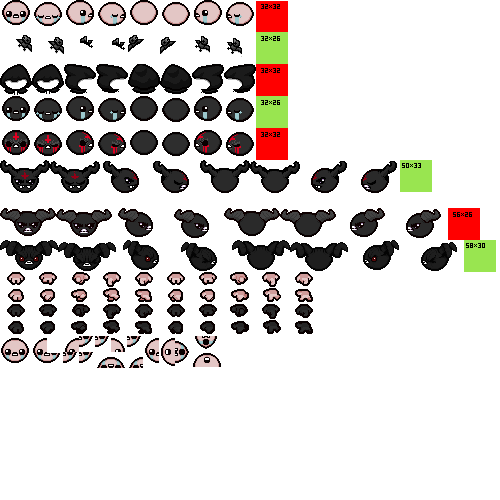
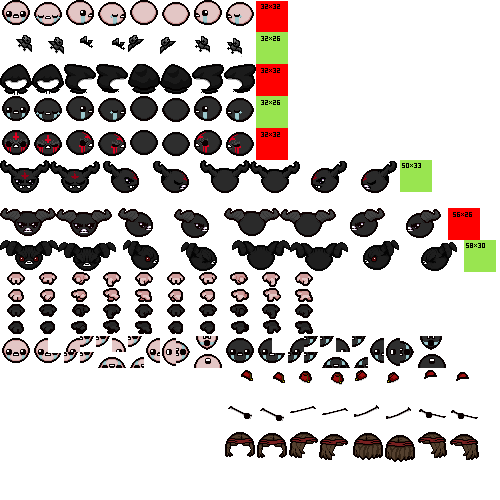
[ADD] Now can play up to 4 different Team !

diff --git a/graphics/src/Player.cpp b/graphics/src/Player.cpp
@@ -1,10 +1,11 @@
 #include "Player.hpp"
 
-Player::Player(e_orientation o, sf::Vector2i pos, std::string teamName, std::string id)
+Player::Player(e_orientation o, sf::Vector2i pos, std::string teamName, std::string id, e_character c)
 {
     
     this->_head = new mEntity("assets/fullSheet.png", sf::IntRect(0, 0 , 0, 0), 99, 1, LEFT_TO_RIGHT, "TexLoad");
     
+    //std::cout << e_character;
     _head->addAnimationLoop("stage1D", 2, 300, sf::IntRect(0, 0, 32, 26));
     _head->addAnimationLoop("stage1R", 2, 300, sf::IntRect(64, 0, 32, 26));
     _head->addAnimationLoop("stage1U", 2, 300, sf::IntRect(128, 0, 32, 26));
@@ -37,7 +38,16 @@ Player::Player(e_orientation o, sf::Vector2i pos, std::string teamName, std::str
     _head->addAnimationLoop("stage8L", 2, 300, sf::IntRect(348, 240, 58, 30));
 
 
-    this->_body = new mEntity("assets/fullSheet.png", sf::IntRect(0, 0, 0, 0), 99, 1, LEFT_TO_RIGHT,"TexLoad");
+    this->_character = c;
+    this->_accesories = new mEntity("assets/fullSheet.png", sf::IntRect(0, 0, 0, 0), 99, 1, LEFT_TO_RIGHT, "Texload");
+    
+    _accesories->addAnimationLoop("D", 2, 300, sf::IntRect(224, 369 + 32 * (_character - 1), 32, 26));
+    _accesories->addAnimationLoop("R", 2, 300, sf::IntRect(224 + 64, 369 + 32 * (_character - 1), 32, 26));
+    _accesories->addAnimationLoop("U", 2, 300, sf::IntRect(224 + 128, 369 + 32 * (_character - 1), 32, 26));
+    _accesories->addAnimationLoop("L", 2, 300, sf::IntRect(224 + 192, 369 + 32* (_character - 1), 32, 26));
+
+    this->_body = new mEntity("assets/fullSheet.png", sf::IntRect(0, 0, 0, 0), 99, 1, LEFT_TO_RIGHT, "TexLoad");
+
 
     _body->addAnimationLoop("UDwhiteidle", 1, 95, sf::IntRect(0, 272, 32, 16));
     _body->addAnimationLoop("UDwhite",10 , 95, sf::IntRect(0, 272, 32, 16));
@@ -51,8 +61,8 @@ Player::Player(e_orientation o, sf::Vector2i pos, std::string teamName, std::str
 
     _head->getSprite().setScale(sf::Vector2f(4, 4));
     _body->getSprite().setScale(sf::Vector2f(4, 4));
-    
-    
+    _accesories->getSprite().setScale(sf::Vector2f(4, 4));
+
     _stage = 0;
     _movementOffset = {0, 0};
     _position = pos;
@@ -62,10 +72,6 @@ Player::Player(e_orientation o, sf::Vector2i pos, std::string teamName, std::str
     _id = id;
     _life = 65;
 
-
-    ///// SHOULDN'T BE USEFUL
-    getBody()->getSprite().setPosition(sf::Vector2f(x() * 128, y() * 128 + 32));
-    /////////////////////////
 }
 
 Player::~Player()
@@ -93,21 +99,36 @@ mEntity* Player::getBody()
     return _body;
 }
 
+mEntity* Player::getAccesories()
+{
+    return _accesories;
+}
+
 void Player::update()
 {
-    std::string h = "stage";
+    _accesories->update();
+        std::string h = "stage";
     if (_stage <= 3)
         h += std::to_string(1);
     else
         h += std::to_string(_stage);
-    if (_orientation == LEFT)
+    
+    if (_orientation == LEFT) {
         h += std::string("L");
-    if (_orientation == RIGHT)
+        _accesories->changeAnimationLoop("L");
+    }
+    if (_orientation == RIGHT) {
         h += std::string("R");
-    if (_orientation == UP)
+        _accesories->changeAnimationLoop("R");
+    }
+    if (_orientation == UP) {
         h += std::string("U");
-    if (_orientation == DOWN)
+        _accesories->changeAnimationLoop("U");
+    }
+    if (_orientation == DOWN) {
         h += std::string("D");
+        _accesories->changeAnimationLoop("D");
+    }
     _head->changeAnimationLoop(h);
     _head->update();
 
@@ -229,4 +250,9 @@ int Player::getLife()
 void Player::setLife(int i)
 {
     _life = i;
+}
+
+e_character Player::getCharacter()
+{
+    return _character;
 }

diff --git a/graphics/src/Population.cpp b/graphics/src/Population.cpp
@@ -64,6 +64,7 @@ sf::Vector2i forward(sf::Vector2i p, e_orientation o)
         return {p.x, p.y -1};
     if (o == DOWN)
         return {p.x, p.y + 1};
+    return {p.x, p.y + 1};
 }
 
 void Population::parseCommand(std::vector<std::string> c)
@@ -79,6 +80,11 @@ void Population::parseCommand(std::vector<std::string> c)
     
     if (c[1] == "life")
         getPlayerById(c[2])->setLife(std::atoi(c[3].c_str()));
+
+    if (c[1] == "up") {
+        std::cout << "AZE";
+        getPlayerById(c[2])->setStage(getPlayerById(c[2])->getStage() + 1);
+    }
 }
 
 Player *Population::getPlayerById(std::string id)
@@ -88,6 +94,16 @@ Player *Population::getPlayerById(std::string id)
             return (_players[i]);
     }
     return (nullptr);
+}
+
+bool Population::teamExist(std::string tn)
+{
+    for (unsigned int i = 0; i != _teamRegistered.size(); i++) {
+        if (_teamRegistered[i].first == tn) {
+            return true;
+        }
+    }
+    return false;
 }
 
 std::vector<Player *> Population::getPlayerByPos(sf::Vector2i pos)
@@ -112,9 +128,6 @@ std::vector<Player *> Population::getPlayerByTeam(std::string team)
     return (bfr);
 }
 
-
-
-
 std::vector<Player*> Population::getPlayers()
 {
     return _players;
@@ -126,6 +139,22 @@ void Population::addPlayer(e_orientation o, sf::Vector2i pos, std::string team, 
         std::cout << "Error : Player " << id << " already exist\n";
         return;
     }
-    Player *p = new Player(o, pos, team, id);
+    Player *p = new Player(o, pos, team, id, getNextCharacter());
+    
+    if (!teamExist(team)) {
+        _teamRegistered.push_back(std::pair<std::string, e_character>(team, p->getCharacter()));
+    }
     _players.push_back(p);
+}
+
+e_character Population::getNextCharacter()
+{
+    e_character ret = C_CAIN; 
+
+    for (unsigned int i = 0; i != _teamRegistered.size(); i++) {
+        if (_teamRegistered[i].second == ret) {
+            ret = static_cast<e_character>(static_cast<int>(ret + 1));
+        }
+    }
+    return ret;
 }

diff --git a/graphics/src/Drawer.cpp b/graphics/src/Drawer.cpp
@@ -44,13 +44,7 @@ Drawer::~Drawer()
 
 void Drawer::drawPlayer(Player &p)
 {        
-//    if (sf::Keyboard::isKeyPressed(sf::Keyboard::Right));
-//        p.addMovementOffset({-1, 0});
-//    if (sf::Keyboard::isKeyPressed(sf::Keyboard::Left));
-//        p.addMovementOffset({1, 0});
-    
     p.getBody()->getSprite().setPosition(sf::Vector2f(p.x() * 128, p.y() * 128 + 32));
-
     if (!((p.getPosition().x == p.getPositionGoal().x) and (p.getPosition().y == p.getPositionGoal().y)))
         movePlayer(p);
 
@@ -58,7 +52,7 @@ void Drawer::drawPlayer(Player &p)
     int diff = (p.getHead()->getSprite().getGlobalBounds().width - p.getBody()->getSprite().getGlobalBounds().width) / 2;
     p.getHead()->getSprite().setPosition(sf::Vector2f(p.getBody()->getSprite().getPosition().x - diff,
                                                       p.getBody()->getSprite().getPosition().y - (p.getHead()->getSprite().getGlobalBounds().height) * 0.79));
-        
+
     _window->draw(p.getBody()->getSprite());
     if (p.getStage() == 2)
         drawStage2(p);
@@ -66,6 +60,17 @@ void Drawer::drawPlayer(Player &p)
         drawStage3(p);
     
     _window->draw(p.getHead()->getSprite());
+    
+    p.getAccesories()->getSprite().setPosition(p.getBody()->getSprite().getPosition()); 
+    if (p.getCharacter() == C_JUDAS) {
+        p.getAccesories()->getSprite().move({0, -110}); 
+    }
+    if (p.getCharacter() == C_CAIN) {
+        p.getAccesories()->getSprite().move({0, -90}); 
+    }
+
+    if (p.getCharacter() != C_ISAAC)
+        _window->draw(p.getAccesories()->getSprite());
 }
 
 void Drawer::display()

diff --git a/graphics/src/Player.hpp b/graphics/src/Player.hpp
@@ -10,10 +10,17 @@ enum e_orientation {
     LEFT
 };
 
+enum e_character {
+    C_ISAAC = 0,
+    C_JUDAS = 1,
+    C_CAIN = 2,
+    C_SAMSON = 3
+};
+
 class Player
 {
     public:
-        Player(e_orientation o, sf::Vector2i pos, std::string teamName, std::string id);
+        Player(e_orientation o, sf::Vector2i pos, std::string teamName, std::string id, e_character c);
         ~Player();
         
         // Get stage of the player
@@ -28,6 +35,9 @@ class Player
         // Getter for body mEntity
         mEntity *getBody();
         
+        // Getter for body mEntity
+        mEntity *getAccesories();
+
         // Update player, call update for head and body and change the animation loop based on orientation
         void update();
         
@@ -74,9 +84,15 @@ class Player
         int getLife();
         // set Life
         void setLife(int i);
+    
+        e_character getCharacter();
+
+
     private:
         int _stage;
         int _life;
+        e_character _character;
+        mEntity *_accesories;
         std::string _id;
         std::string _teamName;
         sf::Vector2i _position;

diff --git a/graphics/src/Population.hpp b/graphics/src/Population.hpp
@@ -12,9 +12,13 @@ public:
     Player *getPlayerById(std::string id);
     std::vector<Player *> getPlayerByPos(sf::Vector2i pos);
     std::vector<Player *> getPlayerByTeam(std::string name);
+    bool teamExist(std::string tn);
 private:
     void addPlayer(e_orientation o, sf::Vector2i pos, std::string team, std::string id);
+    e_character getNextCharacter();
+
     std::vector<Player*> _players;
+    std::vector<std::pair<std::string, e_character>> _teamRegistered;
 };
 
 #endif

diff --git a/graphics/src/Network.cpp b/graphics/src/Network.cpp
@@ -9,7 +9,7 @@ Network::Network()
     _text.setOutlineThickness(1);
     _text.setOutlineColor(sf::Color::Black);
     _text.setPosition(50, 900);
-    _buffer = "";
+    _buffer = "player new S 5 5 Team Team0";
     _text.setString(_buffer);
 }
 
